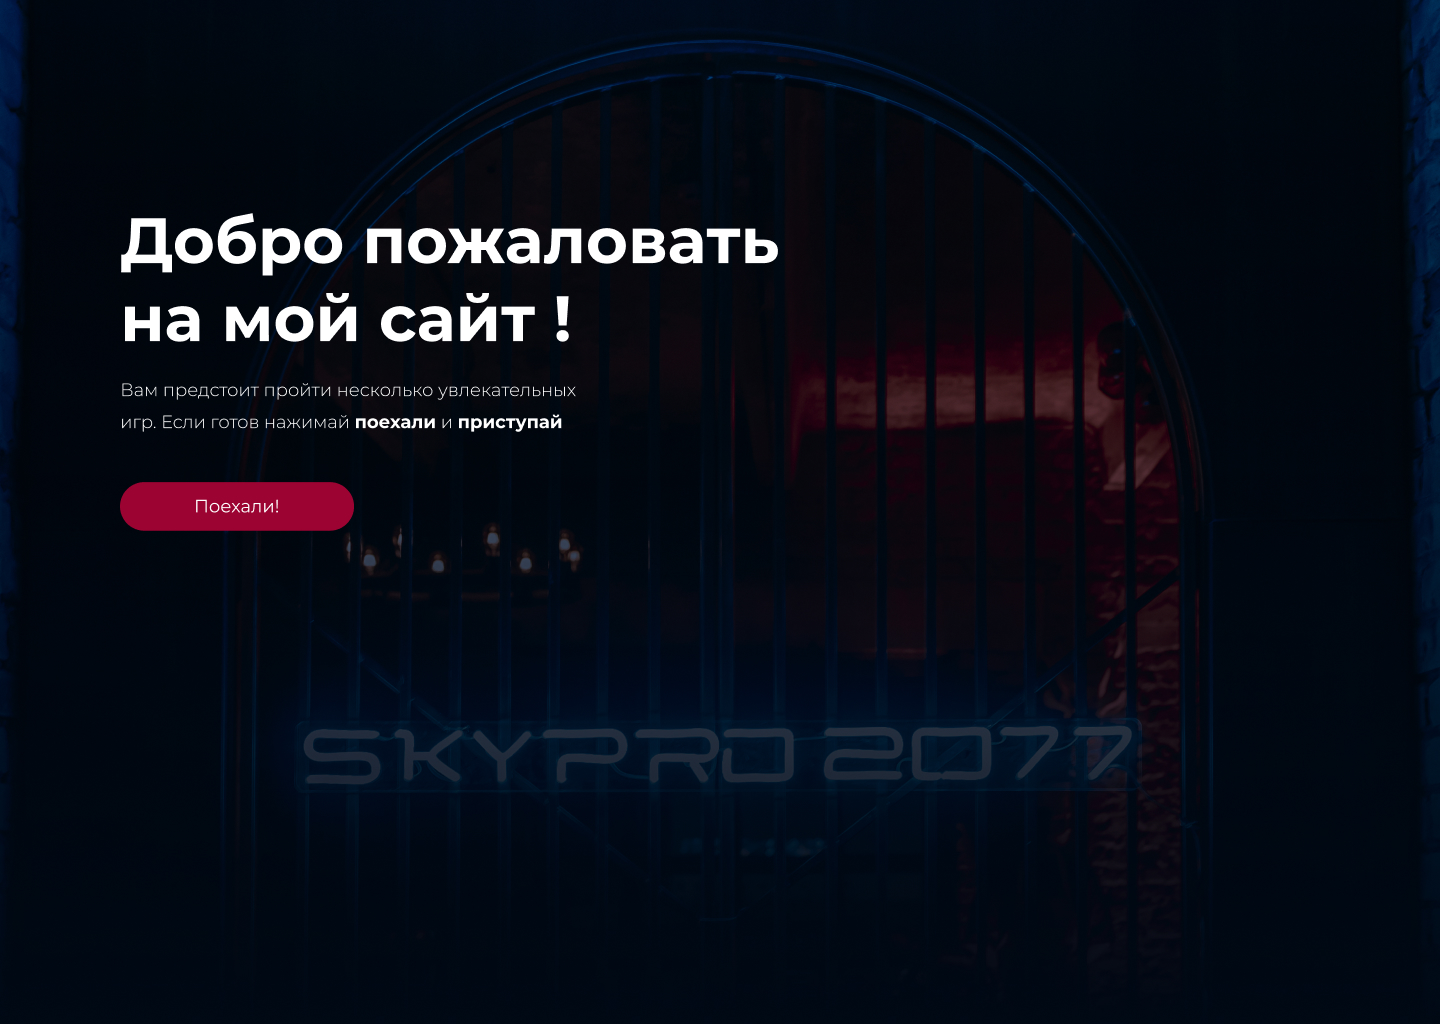
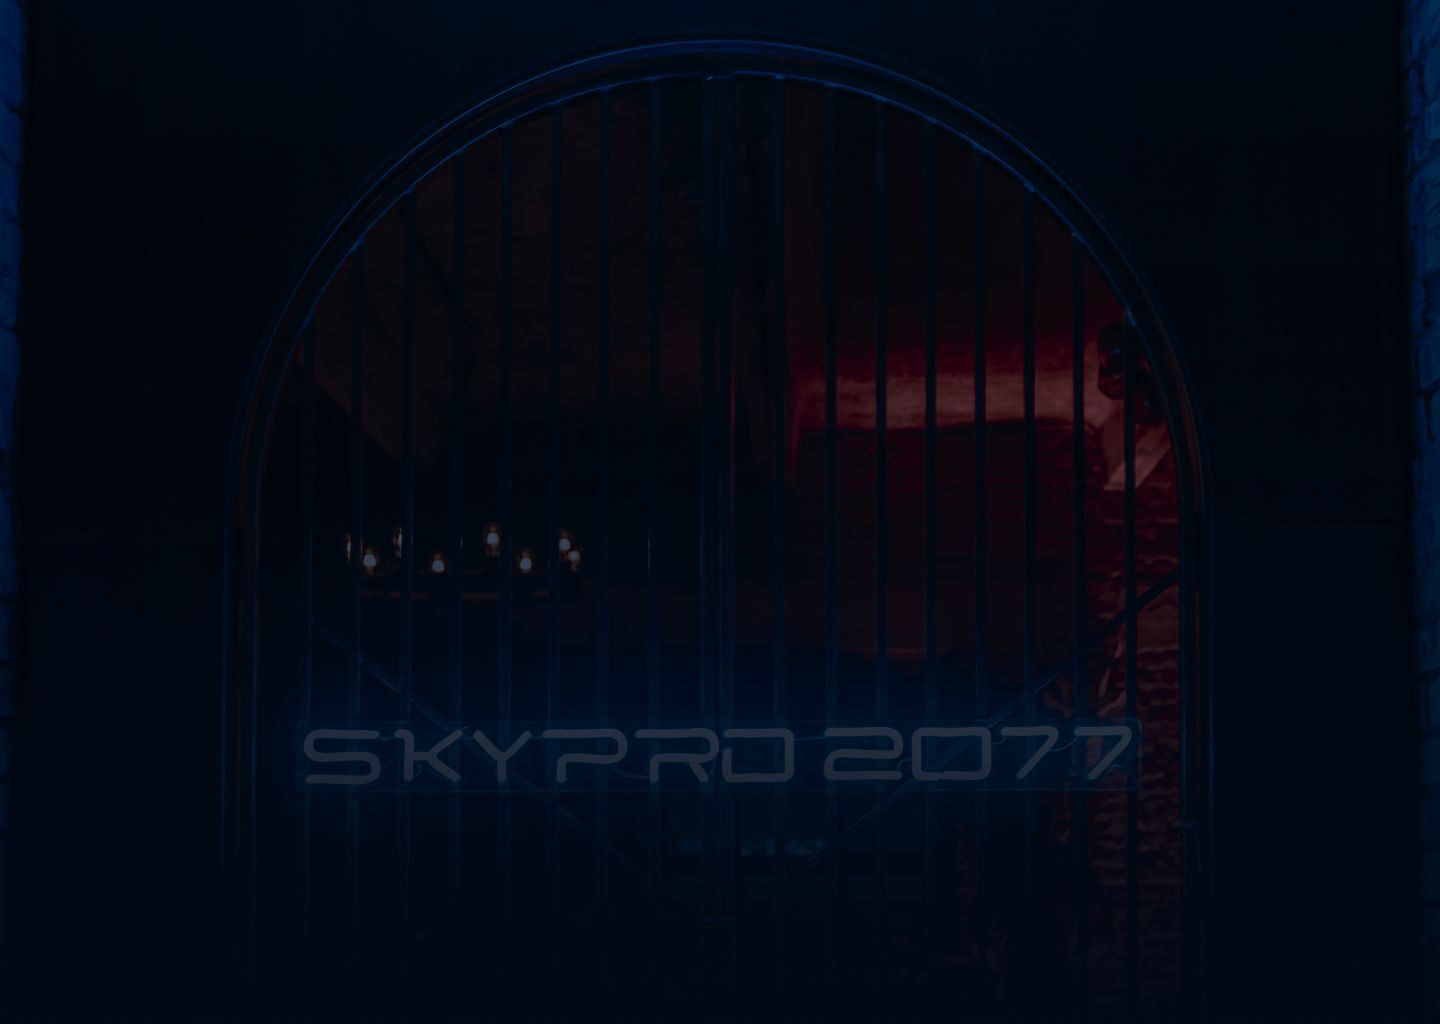
Add  h1, h4, button

Changed region(s): [[0.0625, 0.1875, 0.5625, 0.3438], [0.0938, 0.375, 0.4062, 0.4375], [0.0625, 0.4688, 0.25, 0.5312]]

diff --git a/hw1/style.css b/hw1/style.css
@@ -27,6 +27,8 @@ input, button, select {
     font-style: normal;
     font-weight: 700;
     line-height: normal;
+    display: flex;
+    flex-wrap: wrap;
 }
 
 .top__content {
@@ -37,35 +39,109 @@ input, button, select {
     line-height: 32px;
 }
 
+.header {
+    color: #FFF;
+    font-size: 64px;
+    font-style: normal;
+    font-weight: 700;
+    line-height: normal;
+    display: flex;
+    width: 788.778px;
+    height: 125.007px;
+    flex-direction: column;
+    justify-content: center;
+    flex-shrink: 0;
+    padding-top: 217px;
+    padding-left: 120.22px;
+}
+
+
+
+.heading {
+    color: #FFF;
+    font-style: normal;
+    font-size: 18px;
+    font-weight: 300;
+    line-height: 32px;
+    display: flex;
+    width: 481px;
+    height: 64px;
+    padding-top: 32px;
+    padding-left: 120.22px;
+}
+.fat {
+    color: #FFF;
+    font-size: 18px;
+    font-style: normal;
+    font-weight: 700;
+    line-height: 32px;
+}
+
+    
+.top-button {
+    color: #FFF;
+    font-size: 18px;
+    font-style: normal;
+    font-weight: 400;
+    line-height: normal;
+    background: #9C0332;
+    -webkit-box-sizing: border-box;
+    box-sizing: border-box;
+    border-radius: 30px;
+    width: 234.063px;
+    height: 48.603px;
+    font-size: 14px;
+    line-height: 17px;
+    color: #FFFFFF;
+    transition: all 0.3s;
+}
+
+.top-button:hover {
+        background: #EB443F;
+    }
+
+.heading-button {
+    padding-left: 120.22px;
+    padding-top: 9.8px;
+}
+
 .games {
     background-color: black;
     display: flex;
     gap: 32px;
+    padding-top: 128px;
+    padding-bottom: 128px;
     
 }
 
 .game__img1 {
     transition: all 0.3s;
-    box-shadow: 0 0 0.5px blue;
+    box-shadow: 0 0 0.5px #000000;
 }
 
 .game__img1:hover {
     transform: translate(0px) scale(1.05);
+    border-radius: 16px;
+    border: 3px solid #44D2FF;
 }
 
 .game__img2 {
     transition: all 0.3s;
-    box-shadow: 0 0 0.5px blue;
+    box-shadow: 0 0 0.5px #000000;
 }
 
 .game__img2:hover {
     transform: translate(0px) scale(1.05);
+    border-radius: 16px;
+    border: 3px solid #44D2FF;
 }
 .game__img3 {
     transition: all 0.3s;
-    box-shadow: 0 0 0.5px blue;
+    box-shadow: 0 0 0.5px #000000;
 }
 
 .game__img3:hover {
     transform: translate(0px) scale(1.05);
+    border-radius: 16px;
+    border: 3px solid #44D2FF;
 }

diff --git a/hw1/index.html b/hw1/index.html
@@ -1,5 +1,6 @@
 <!DOCTYPE html>
 <html lang="en">
+
 <head>
     <meta charset="UTF-8">
     <meta http-equiv="X-UA-Compatible" content="IE=edge">
@@ -10,15 +11,27 @@
     <link href="https://fonts.googleapis.com/css2?family=Montserrat:wght@400;500;600&display=swap" rel="stylesheet">
     <link rel="stylesheet" href="style.css">
 </head>
+
 <body>
+
     <div class="top">
+        <div>
+            <h1 class="header">Добро пожаловать на мой сайт !</h1>
+            <h4 class="heading"><span>Вам предстоит пройти несколько увлекательных игр. Если готов нажимай &nbsp;
+                    <span class="fat">поехали&nbsp;</span> и
+                    <span class="fat">&nbsp;приступай</span></span></h4>
+            <div class="heading-button">
+                <button class="top-button">Поехали!</button>
+            </div>
+        </div>
     </div>
-    
+
     <div class="games center">
         <a href="#"><img src="./img/game1.jpg" alt="games" class="game__img1"></a>
         <a href="#"><img src="./img/game2.jpg" alt="games" class="game__img2"></a>
         <a href="#"><img src="./img/game3.jpg" alt="games" class="game__img3"></a>
     </div>
-    
+
 </body>
+
 </html>
